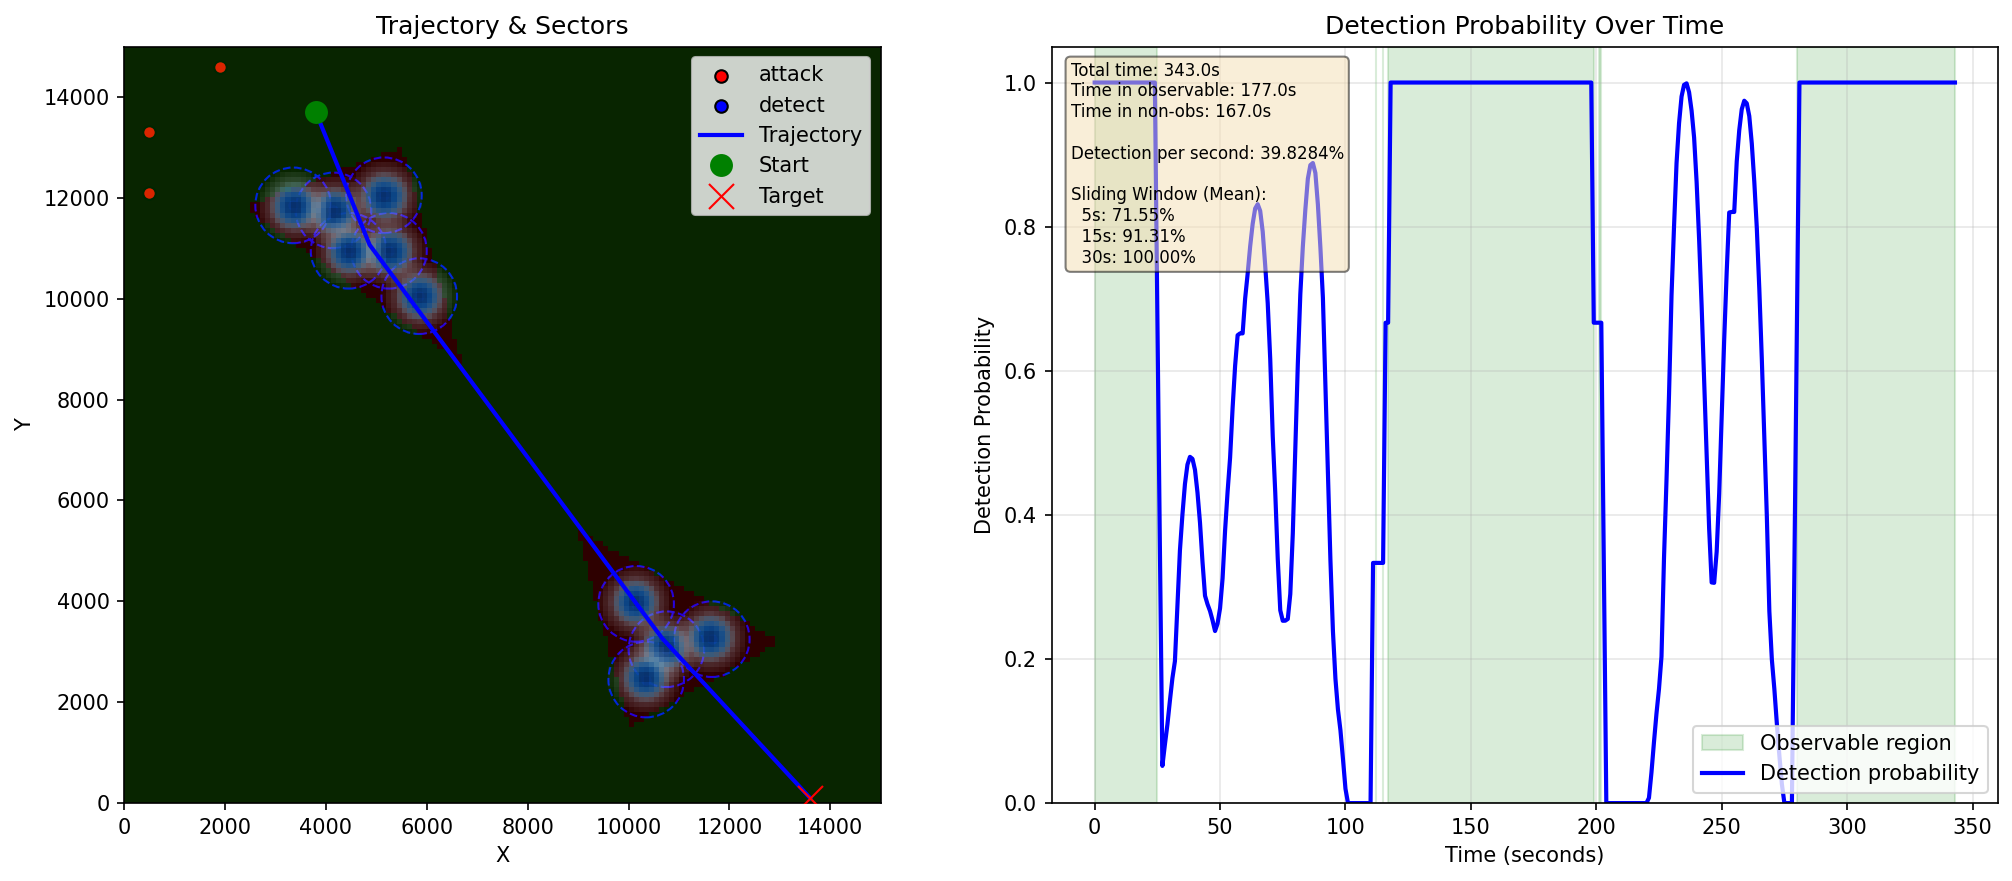
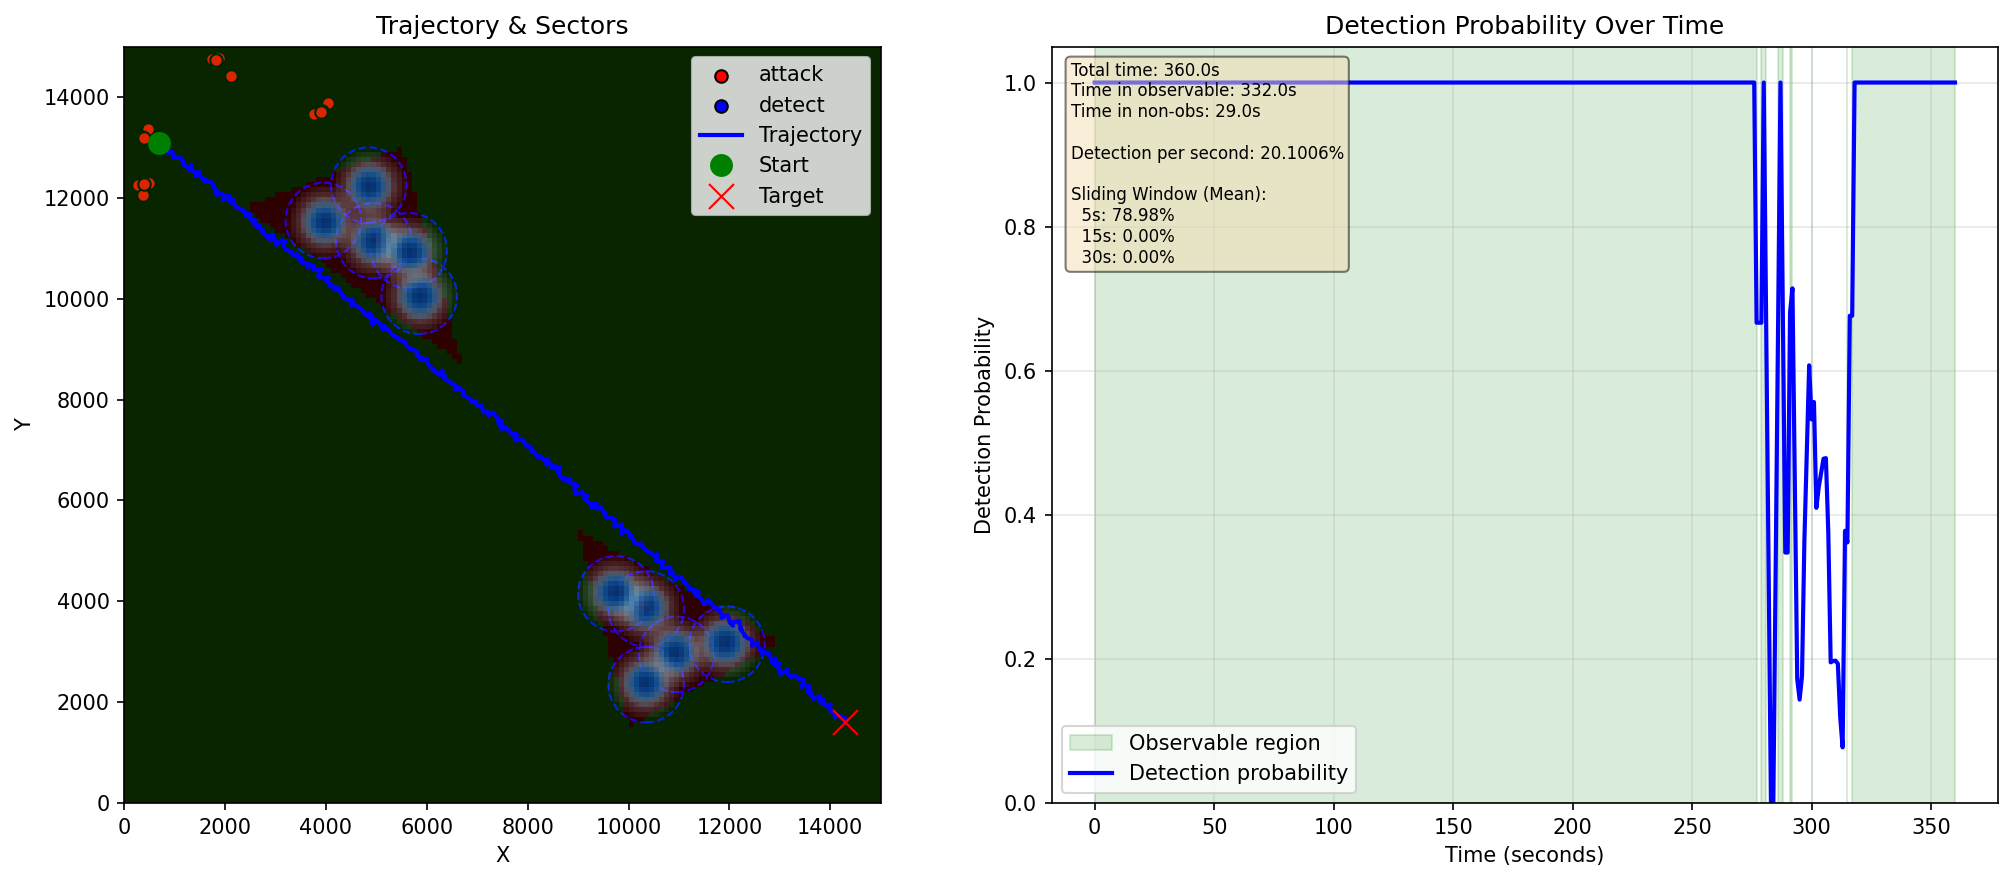
added all things from todos, single attacker to swarm in run, noise in trial run, either straight, shape or grid center midpoint calculuation and tested on non real grid example

diff --git a/src/trial_runner.py b/src/trial_runner.py
@@ -39,8 +39,11 @@ def run_single_trial(
     output_dir: str | Path,
     both_observable_modes: bool = True,
     default_drone_speed: float = 50.0,
-    use_centroid_as_waypoint: bool = True,
-    use_shape_centroids_as_waypoints: bool = True
+    waypoint_mode: Literal['shapes', 'grid_center', 'none'] = 'shapes',
+    trajectory_noise_std: float = 0.0,
+    use_swarm_position: bool = False,
+    swarm_spread: float = 0.0,
+    attackers_per_swarm: int = 4
 ) -> dict:
     """
     Run a single trial experiment with detector optimization.
@@ -74,10 +77,33 @@ def run_single_trial(
         If False, only analyze with include_observable_in_stats=False
     default_drone_speed : float, default=50.0
         Default speed for attacker drones in m/s
-    use_centroid_as_waypoint : bool, default=True
-        Whether to use shape centroids as waypoints
-    use_shape_centroids_as_waypoints : bool, default=True
-        Whether to use greedy nearest-neighbor for multiple shape centroids
+    waypoint_mode : {'shapes', 'grid_center', 'none'}, default='shapes'
+        Waypoint strategy for drone trajectories:
+        - 'shapes': Use shape centroids with greedy nearest-neighbor (default)
+        - 'grid_center': All drones fly to grid center, then to target
+        - 'none': Direct straight line from start to target (no waypoints)
+    trajectory_noise_std : float, default=0.0
+        Standard deviation of Gaussian noise to add to trajectory waypoints (in meters)
+        If 0.0, no noise is added. Recommended values: 5.0-50.0 for realistic deviation.
+        Noise is ALWAYS applied during trajectory generation (not post-processing) to
+        ensure proper timing and distance calculations:
+        - When use_swarm_position=True: Applied by swarm class during generation
+        - When use_swarm_position=False: Trajectories regenerated with noise_std parameter
+    use_swarm_position : bool, default=False
+        If True, treat attacker positions as swarm center positions instead of individual
+        attacker positions. Each attacker's actual position is sampled around the swarm
+        center based on swarm_spread parameter. trajectory_noise_std is used for swarm
+        trajectory noise.
+    swarm_spread : float, default=0.0
+        When use_swarm_position=True, this is the spread radius (in meters) for sampling
+        individual attacker positions around the swarm center. Each attacker's start
+        position is uniformly sampled within [-spread, +spread] in each dimension.
+    attackers_per_swarm : int, default=1
+        When use_swarm_position=True, this is the number of attackers to generate per
+        swarm position. For example, if the JSON has 4 attacker positions and 
+        attackers_per_swarm=3, this will generate 12 total attackers (3 per position).
+        Each attacker in a swarm will have different start positions (based on spread)
+        and different trajectory noise. Ignored when use_swarm_position=False.
         
     Returns
     -------
@@ -147,6 +173,18 @@ def run_single_trial(
     # STEP 1: Load JSON and build environment
     # ========================================================================
     print(f"Loading environment from {json_path}...")
+    
+    # Configure waypoint settings based on mode
+    if waypoint_mode == 'shapes':
+        use_centroid_as_waypoint = True
+        use_shape_centroids_as_waypoints = True
+    elif waypoint_mode == 'grid_center':
+        use_centroid_as_waypoint = False  # Don't use shape centroids
+        use_shape_centroids_as_waypoints = False
+    else:  # waypoint_mode == 'none'
+        use_centroid_as_waypoint = False
+        use_shape_centroids_as_waypoints = False
+    
     sector_env, attackers, grid_data = load_and_build_env(
         json_path,
         default_drone_speed=default_drone_speed,
@@ -154,10 +192,100 @@ def run_single_trial(
         use_shape_centroids_as_waypoints=use_shape_centroids_as_waypoints
     )
     
+    # Apply trajectory noise or swarm positioning
+    if use_swarm_position:
+        from src.attackers import AttackerSwarm
+        
+        print(f"Using swarm positions (spread={swarm_spread}m, trajectory_noise={trajectory_noise_std}m, {attackers_per_swarm} attackers/swarm)...")
+        
+        # Group attackers by their original start positions to create swarms
+        swarm_dict = {}
+        for attacker in attackers:
+            start_key = attacker.start_position
+            if start_key not in swarm_dict:
+                swarm_dict[start_key] = []
+            swarm_dict[start_key].append(attacker)
+        
+        # Generate new attackers using swarm positions
+        new_attackers = []
+        for swarm_center, attacker_group in swarm_dict.items():
+            # Collect waypoints and targets from original attackers
+            waypoints_to_use = None
+            if len(attacker_group) > 0 and attacker_group[0].waypoints:
+                waypoints_to_use = attacker_group[0].waypoints
+            
+            # Create a swarm for each original attacker in this group
+            for attacker in attacker_group:
+                swarm = AttackerSwarm(
+                    start_position=swarm_center,
+                    target_positions=[attacker.target_position],
+                    number_of_attackers=attackers_per_swarm,  # Generate multiple attackers per swarm
+                    spread=swarm_spread,
+                    noise_std=trajectory_noise_std,  # Use trajectory_noise_std for swarm noise
+                    waypoints=waypoints_to_use
+                )
+                # Generate attackers from swarm (with spread and noise applied)
+                swarm_attackers = swarm.generate_swarm(
+                    steps=len(attacker.trajectory),
+                    speed=default_drone_speed
+                )
+                new_attackers.extend(swarm_attackers)
+        
+        attackers = new_attackers
+        original_count = len(swarm_dict) * len(next(iter(swarm_dict.values())))
+        print(f"   Generated {len(attackers)} attackers from {original_count} base positions ({attackers_per_swarm} per swarm)")
+        
+        # IMPORTANT: Update the environment's atk_drones list to reflect the new swarm attackers
+        # This ensures visualizations show the actual swarm members, not the old swarm centers
+        sector_env.atk_drones = attackers
+        print(f"   Updated environment to track {len(attackers)} swarm attackers")
+    
+    elif trajectory_noise_std > 0.0:
+        # Not using swarm, but want noise during trajectory generation
+        print(f"Regenerating trajectories with noise (std={trajectory_noise_std}m)...")
+        for i, attacker in enumerate(attackers):
+            # Update attacker's noise_std and regenerate trajectory
+            attacker.noise_std = trajectory_noise_std
+            attacker.trajectory = attacker.generate_trajectory()
+        print(f"   Regenerated {len(attackers)} trajectories with noise applied during generation")
+    
+    # Override waypoints based on mode
+    if waypoint_mode == 'grid_center':
+        # Calculate grid center
+        grid_center_x = (sector_env.width * sector_env.cell_size) / 2
+        grid_center_y = (sector_env.height * sector_env.cell_size) / 2
+        grid_center = (grid_center_x, grid_center_y)
+        
+        print(f"Overriding waypoints to grid center: {grid_center}")
+        
+        # Override all attacker waypoints to use grid center
+        for i, attacker in enumerate(attackers):
+            old_waypoints = attacker.waypoints
+            attacker.waypoints = [grid_center]
+            # Regenerate trajectory with new waypoint - MUST assign back to trajectory!
+            attacker.trajectory = attacker.generate_trajectory()
+            print(f"   Attacker {i}: waypoints changed from {old_waypoints} to {attacker.waypoints}")
+            print(f"   Attacker {i}: trajectory regenerated with {len(attacker.trajectory)} points")
+    
+    elif waypoint_mode == 'none':
+        # Remove all waypoints - direct line to target
+        print(f"Removing all waypoints for direct trajectories")
+        for i, attacker in enumerate(attackers):
+            old_waypoints = attacker.waypoints
+            attacker.waypoints = None
+            # Regenerate trajectory without waypoints - MUST assign back to trajectory!
+            attacker.trajectory = attacker.generate_trajectory()
+            print(f"   Attacker {i}: waypoints changed from {old_waypoints} to None")
+    
     print(f"✅ Environment loaded:")
     print(f"   Grid: {sector_env.width}×{sector_env.height} cells @ {sector_env.cell_size}m/cell")
     print(f"   Shapes: {len(grid_data.shapes)}")
     print(f"   Attackers: {len(attackers)}")
+    print(f"   Waypoint mode: {waypoint_mode}")
+    if use_swarm_position:
+        print(f"   Swarm mode: ENABLED (spread={swarm_spread}m, {attackers_per_swarm} attackers/swarm, trajectory_noise={trajectory_noise_std}m)")
+    else:
+        print(f"   Trajectory noise: {trajectory_noise_std}m std")
     
     # ========================================================================
     # STEP 2: Analyze trajectories WITHOUT detectors (baseline)
@@ -224,6 +352,31 @@ def run_single_trial(
                     result[f'sliding_window_{size}s_mean'] = np.nan
             
             trajectory_results.append(result)
+        
+        # Create combined visualization showing all trajectories together
+        if len(attackers) > 1:
+            print(f"Creating combined visualization with all {len(attackers)} trajectories...")
+            fig, ax = plt.subplots(1, 1, figsize=(12, 10))
+            sector_env.visualize(ax=ax, show=False, show_sectors=True)
+            
+            # Plot all trajectories
+            for i, attacker in enumerate(attackers):
+                traj_arr = np.array(attacker.trajectory)
+                ax.plot(traj_arr[:, 0], traj_arr[:, 1], '-', linewidth=1.5, alpha=0.7, label=f'Traj {i}')
+                ax.plot(traj_arr[0, 0], traj_arr[0, 1], 'go', markersize=8, alpha=0.6)
+                ax.plot(traj_arr[-1, 0], traj_arr[-1, 1], 'rx', markersize=10, alpha=0.6)
+            
+            ax.set_title(f'All {len(attackers)} Trajectories - Baseline')
+            # Only show legend if not too many trajectories
+            if len(attackers) <= 20:
+                ax.legend(loc='upper right', fontsize=8, ncol=2)
+            
+            # Save combined plot
+            combined_plot_filename = f"all_trajectories_{'include' if include_observable else 'exclude'}_observable.png"
+            combined_plot_path = plots_dir / combined_plot_filename
+            plt.savefig(combined_plot_path, dpi=150, bbox_inches='tight')
+            plt.close('all')
+            print(f"   Saved combined plot to {combined_plot_filename}")
         
         # Calculate means across all trajectories
         mean_result = {'trajectory_id': 'MEAN'}
@@ -356,6 +509,31 @@ def run_single_trial(
             
             trajectory_results.append(result)
         
+        # Create combined visualization showing all trajectories together
+        if len(attackers) > 1:
+            print(f"Creating combined visualization with all {len(attackers)} trajectories...")
+            fig, ax = plt.subplots(1, 1, figsize=(12, 10))
+            sector_env.visualize(ax=ax, show=False, show_sectors=True)
+            
+            # Plot all trajectories
+            for i, attacker in enumerate(attackers):
+                traj_arr = np.array(attacker.trajectory)
+                ax.plot(traj_arr[:, 0], traj_arr[:, 1], '-', linewidth=1.5, alpha=0.7, label=f'Traj {i}')
+                ax.plot(traj_arr[0, 0], traj_arr[0, 1], 'go', markersize=8, alpha=0.6)
+                ax.plot(traj_arr[-1, 0], traj_arr[-1, 1], 'rx', markersize=10, alpha=0.6)
+            
+            ax.set_title(f'All {len(attackers)} Trajectories - With Detectors')
+            # Only show legend if not too many trajectories
+            if len(attackers) <= 20:
+                ax.legend(loc='upper right', fontsize=8, ncol=2)
+            
+            # Save combined plot
+            combined_plot_filename = f"all_trajectories_{'include' if include_observable else 'exclude'}_observable.png"
+            combined_plot_path = plots_dir_detectors / combined_plot_filename
+            plt.savefig(combined_plot_path, dpi=150, bbox_inches='tight')
+            plt.close('all')
+            print(f"   Saved combined plot to {combined_plot_filename}")
+        
         # Calculate means across all trajectories
         mean_result = {'trajectory_id': 'MEAN'}
         
@@ -397,7 +575,9 @@ def run_single_trial(
     print(f"CSV files generated: {len(csv_files) + len(observable_modes)}")
     print(f"Baseline plots saved to: {plots_dir}")
     print(f"Detector plots saved to: {plots_dir_detectors}")
-    print(f"Total plots generated: {len(attackers) * len(observable_modes) * 2}")
+    individual_plots = len(attackers) * len(observable_modes) * 2
+    combined_plots = len(observable_modes) * 2 if len(attackers) > 1 else 0
+    print(f"Total plots generated: {individual_plots + combined_plots} ({individual_plots} individual + {combined_plots} combined)")
     
     return {
         'json_path': str(json_path),
@@ -420,7 +600,7 @@ if __name__ == "__main__":
     # Get the project root directory (parent of src/)
     project_root = Path(__file__).parent.parent
     
-    # Example trial
+    # Example trial with shape centroids waypoints (default)
     results = run_single_trial(
         json_path=project_root / "utils" / "basic_notreal.json",
         n_detectors=10,
@@ -428,10 +608,33 @@ if __name__ == "__main__":
         sliding_window_sizes=[5, 10, 15, 30, 60],
         optimization_method='greedy+refine',
         output_dir=project_root / "results" / "trial_example",
-        both_observable_modes=True
+        both_observable_modes=True,
+        waypoint_mode='grid_center',  # Options: 'shapes', 'grid_center', 'none'
+        trajectory_noise_std=40.0,  # Trajectory noise (meters) - used for both normal and swarm mode
+        use_swarm_position=True,  # Use swarm positioning
+        swarm_spread=250.0  # Spread radius (meters) when use_swarm_position=True
     )
     
     print(f"\n\nTrial metadata:")
     for key, value in results.items():
         if key != 'detector_positions':  # Skip printing all positions
             print(f"  {key}: {value}")
+    
+    # ========================================================================
+    # Configuration Examples:
+    # ========================================================================
+    
+    # Waypoint modes:
+    # waypoint_mode='shapes'       # Use shape centroids (default)
+    # waypoint_mode='grid_center'  # All drones fly to grid center first
+    # waypoint_mode='none'         # Straight line from start to target
+    
+    # Trajectory noise (all values in meters):
+    # trajectory_noise_std=20.0    # 20m standard deviation
+    #                              # ALWAYS applied during trajectory generation (not post-processing)
+    #                              # Ensures proper timing and distance calculations
+    
+    # Swarm positioning (treats attacker positions as swarm centers):
+    # use_swarm_position=True      # Enable swarm mode
+    # swarm_spread=50.0            # Individual attackers spread 50m around center
+    #                              # trajectory_noise_std applies to each swarm attacker

diff --git a/src/attackers.py b/src/attackers.py
@@ -48,6 +48,23 @@ class Attacker:
 
         self.trajectory = self.generate_trajectory()
 
+    @property
+    def position(self):
+        """
+        Return the start position of the attacker.
+        This property is needed for compatibility with environment visualization
+        which expects drones to have a .position attribute.
+        """
+        return self.start_position
+    
+    @position.setter
+    def position(self, value):
+        """
+        Set the start position of the attacker.
+        This setter is needed for compatibility with code that updates attacker positions.
+        """
+        self.start_position = value
+
     def generate_trajectory(self):
         """
         Generate a linear trajectory from start to target.
